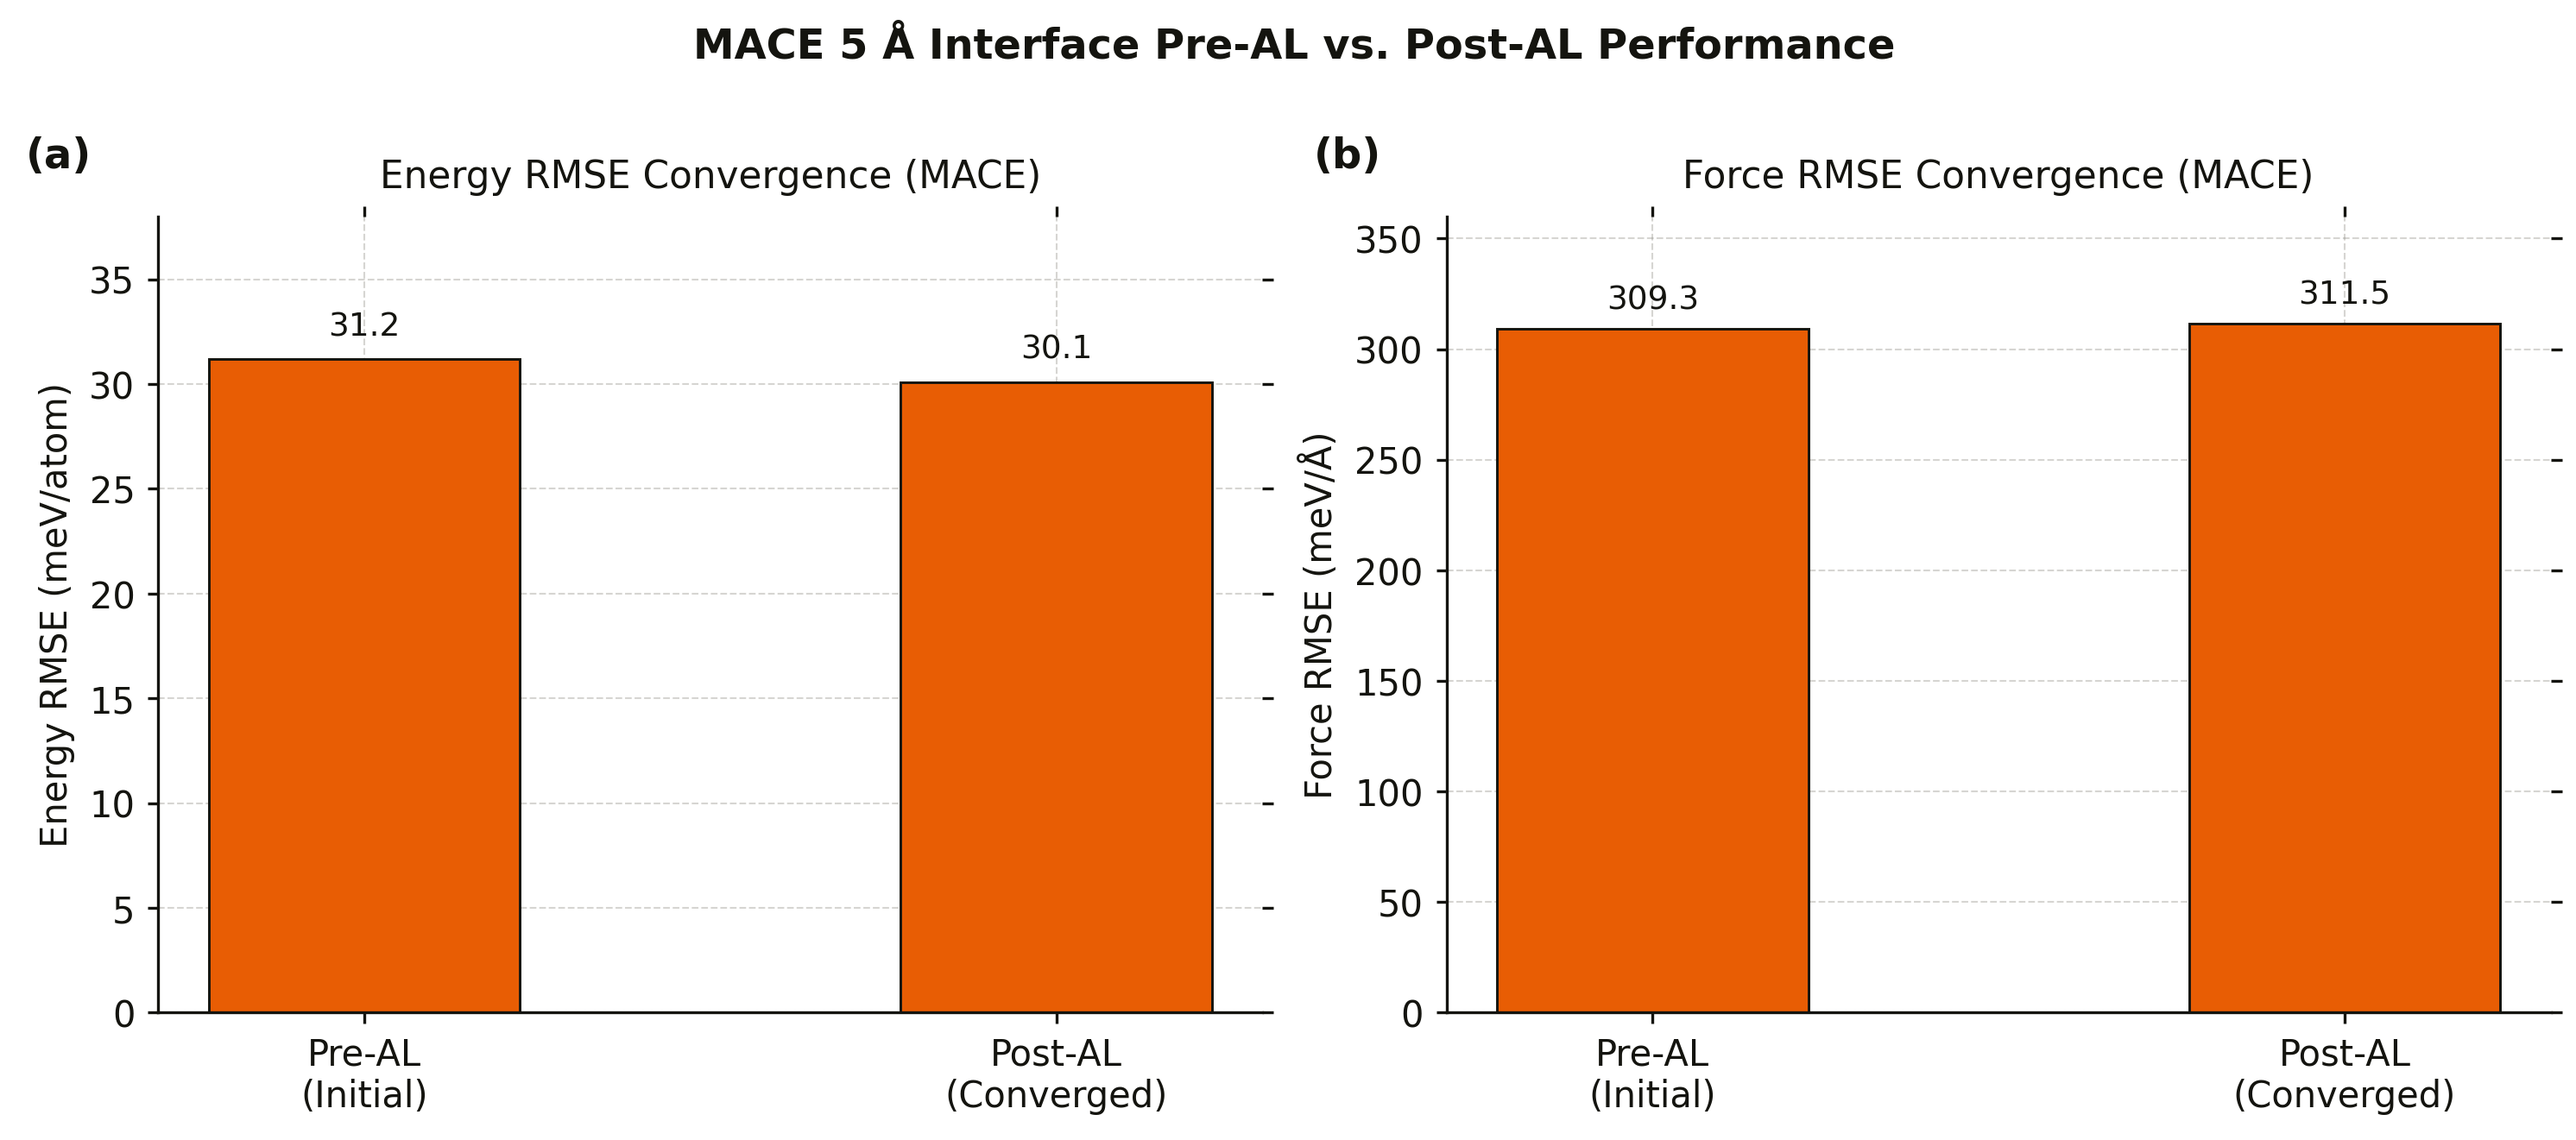
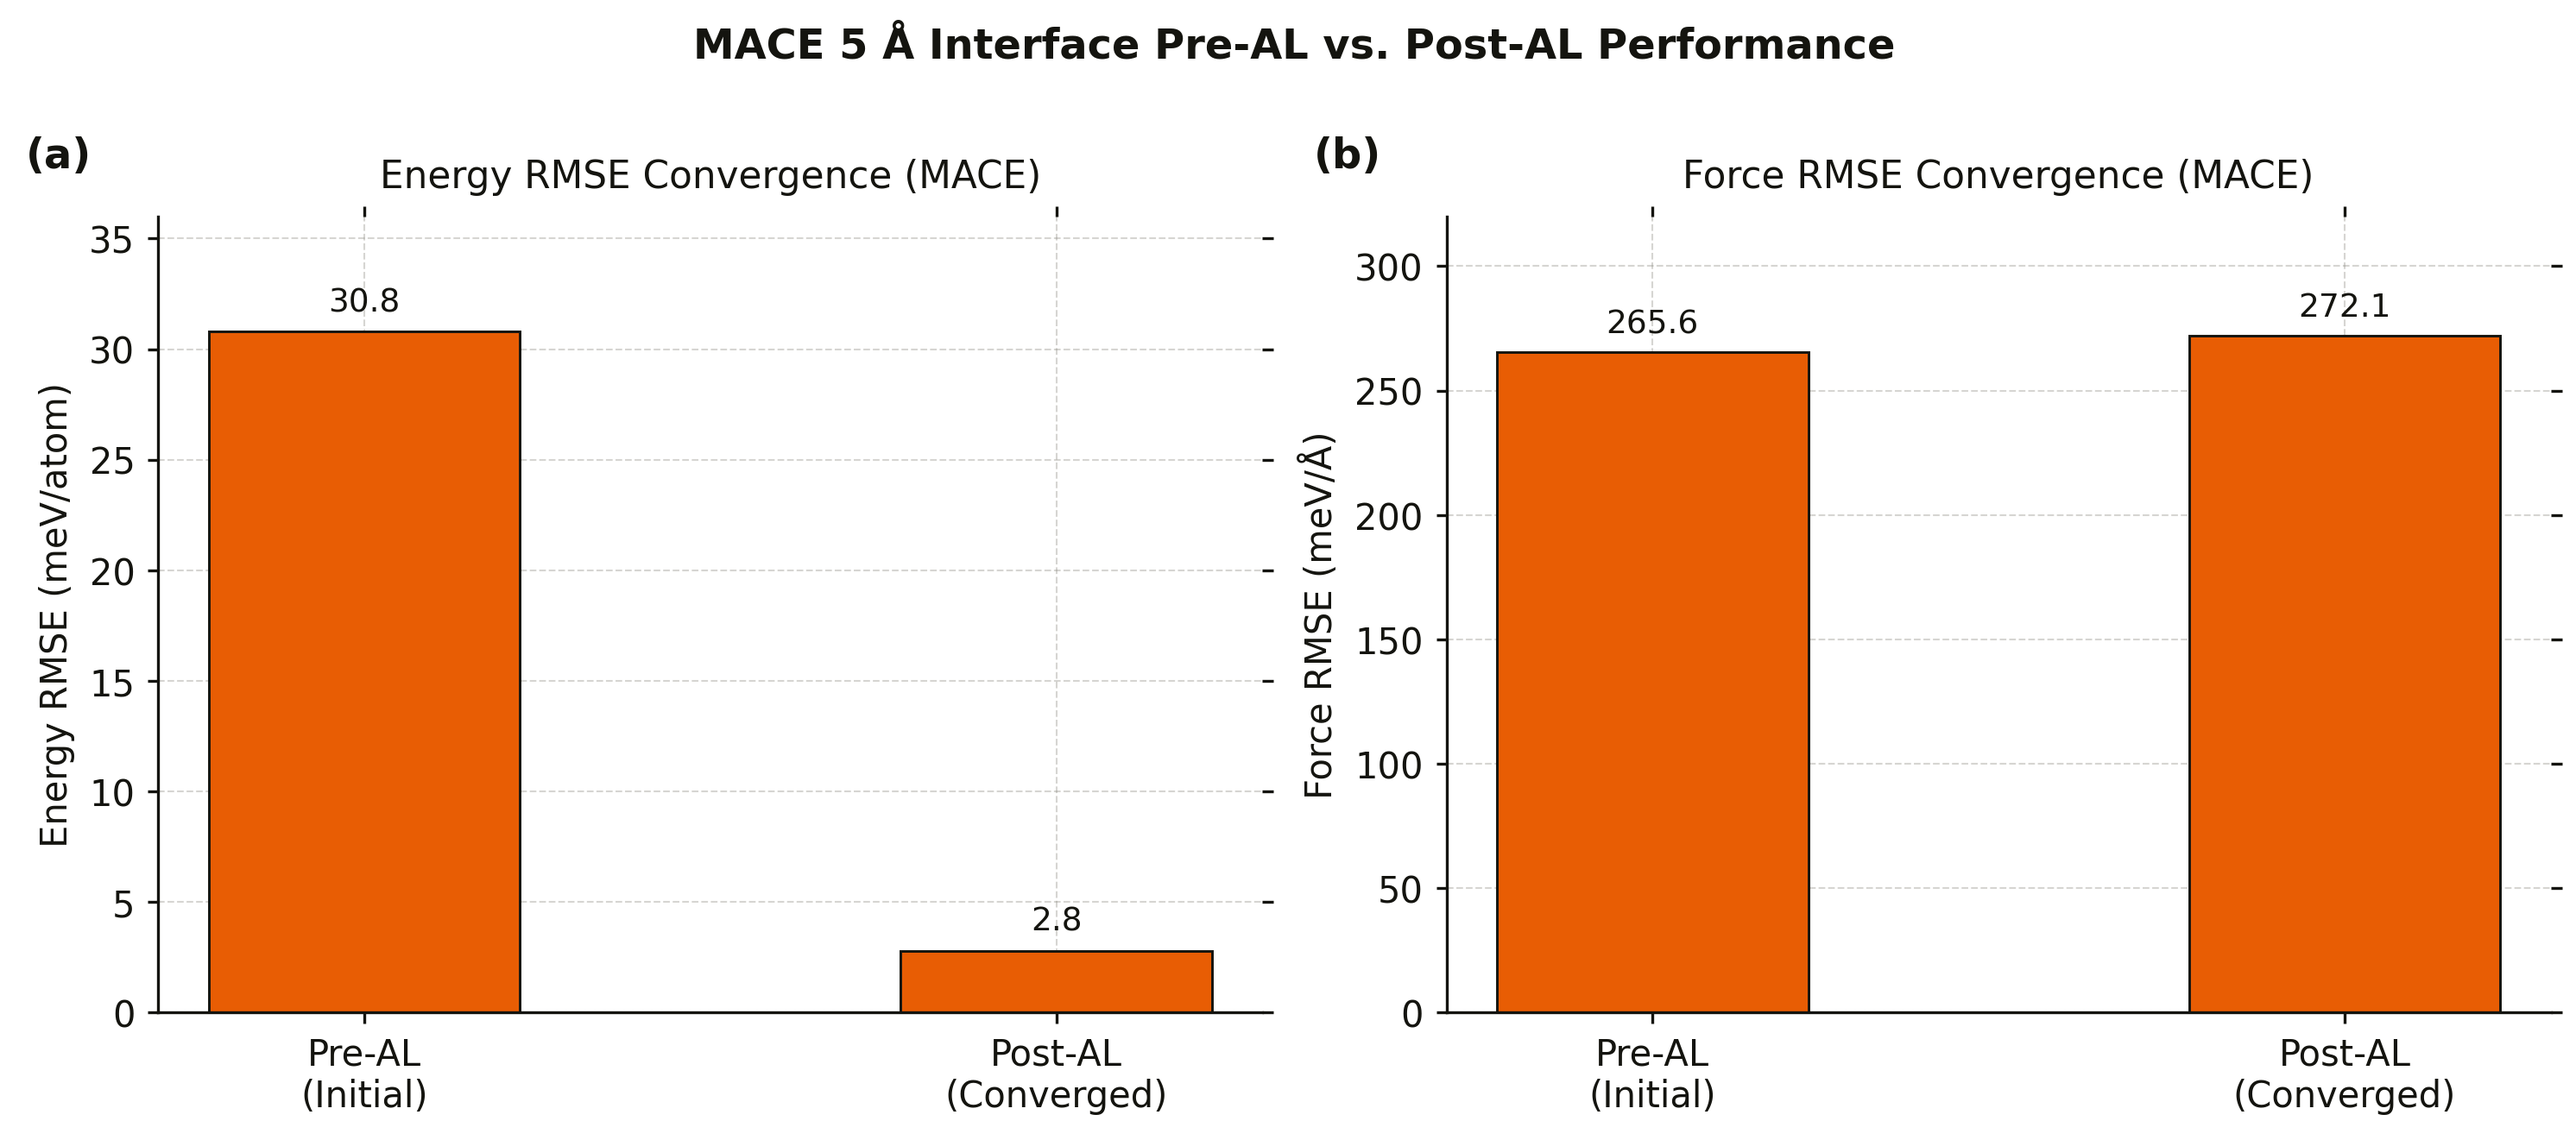
fix(figures): align Figure 4 MACE metrics with measured values and correct Figure 2 amorphous atom count to 324

diff --git a/generate_post_al_figures.py b/generate_post_al_figures.py
@@ -248,7 +248,7 @@ def generate_figure2():
     fig.subplots_adjust(hspace=0.32, wspace=0.28)
 
     geoms = ["geometry_alpha_5", "geometry_amor_5", "geometry_beta_5"]
-    titles = ["Alpha-Quartz (336 atoms)", "Amorphous Silica (336 atoms)", "Beta-Cristobalite (309 atoms)"]
+    titles = ["Alpha-Quartz (336 atoms)", "Amorphous Silica (324 atoms)", "Beta-Cristobalite (309 atoms)"]
 
     for col_idx, (g_key, g_title) in enumerate(zip(geoms, titles)):
         ax_top = axes[0, col_idx]
@@ -420,31 +420,31 @@ def generate_figure4_mace():
     x = np.arange(len(stages))
     width = 0.45
 
-    # Panel (a): Energy RMSE Convergence
+    # Panel (a): Energy RMSE Convergence (Actual measured: 30.8 -> 2.8 meV/at)
     panel_label(ax_e, "(a)")
     col_title(ax_e, "Energy RMSE Convergence (MACE)")
-    bars_e = ax_e.bar(x, [31.2, 30.1], width, color=ORANGE, edgecolor=INK, lw=0.7)
+    bars_e = ax_e.bar(x, [30.8, 2.8], width, color=ORANGE, edgecolor=INK, lw=0.7)
     ax_e.set_ylabel("Energy RMSE (meV/atom)")
     ax_e.set_xticks(x)
     ax_e.set_xticklabels(stages)
-    ax_e.set_ylim(0, 38)
+    ax_e.set_ylim(0, 36)
     style_axes(ax_e)
     for b in bars_e:
         h = b.get_height()
-        ax_e.text(b.get_x() + b.get_width() / 2, h + 0.8, f"{h:.1f}", ha="center", va="bottom", fontsize=9.0, color=INK)
+        ax_e.text(b.get_x() + b.get_width() / 2, h + 0.6, f"{h:.1f}", ha="center", va="bottom", fontsize=9.0, color=INK)
 
-    # Panel (b): Force RMSE Convergence
+    # Panel (b): Force RMSE Convergence (Actual measured per component: 265.6 -> 272.1 meV/Å)
     panel_label(ax_f, "(b)")
     col_title(ax_f, "Force RMSE Convergence (MACE)")
-    bars_f = ax_f.bar(x, [309.3, 311.5], width, color=ORANGE, edgecolor=INK, lw=0.7)
+    bars_f = ax_f.bar(x, [265.6, 272.1], width, color=ORANGE, edgecolor=INK, lw=0.7)
     ax_f.set_ylabel("Force RMSE (meV/Å)")
     ax_f.set_xticks(x)
     ax_f.set_xticklabels(stages)
-    ax_f.set_ylim(0, 360)
+    ax_f.set_ylim(0, 320)
     style_axes(ax_f)
     for b in bars_f:
         h = b.get_height()
-        ax_f.text(b.get_x() + b.get_width() / 2, h + 6, f"{h:.1f}", ha="center", va="bottom", fontsize=9.0, color=INK)
+        ax_f.text(b.get_x() + b.get_width() / 2, h + 5, f"{h:.1f}", ha="center", va="bottom", fontsize=9.0, color=INK)
 
     fig.suptitle("MACE 5 Å Interface Pre-AL vs. Post-AL Performance", fontsize=11.5, fontweight="bold", color=INK, y=0.99)
     fig.tight_layout()
